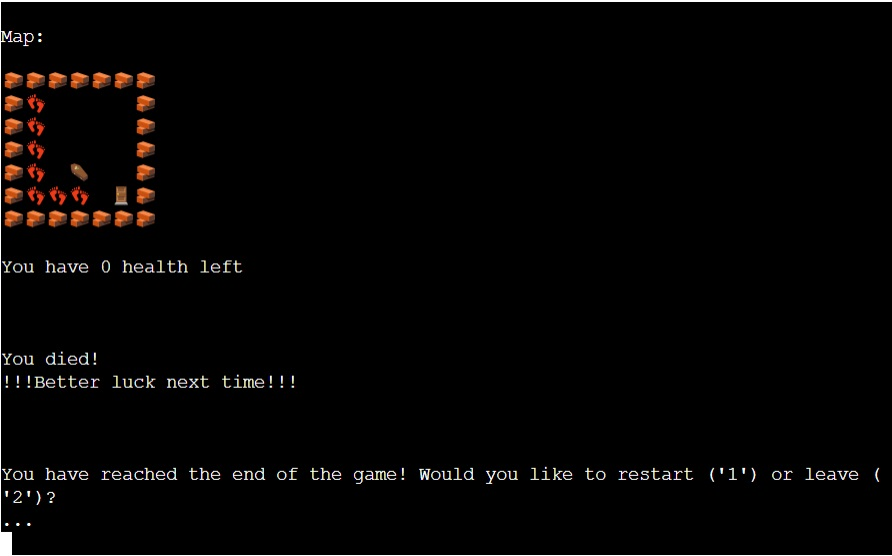
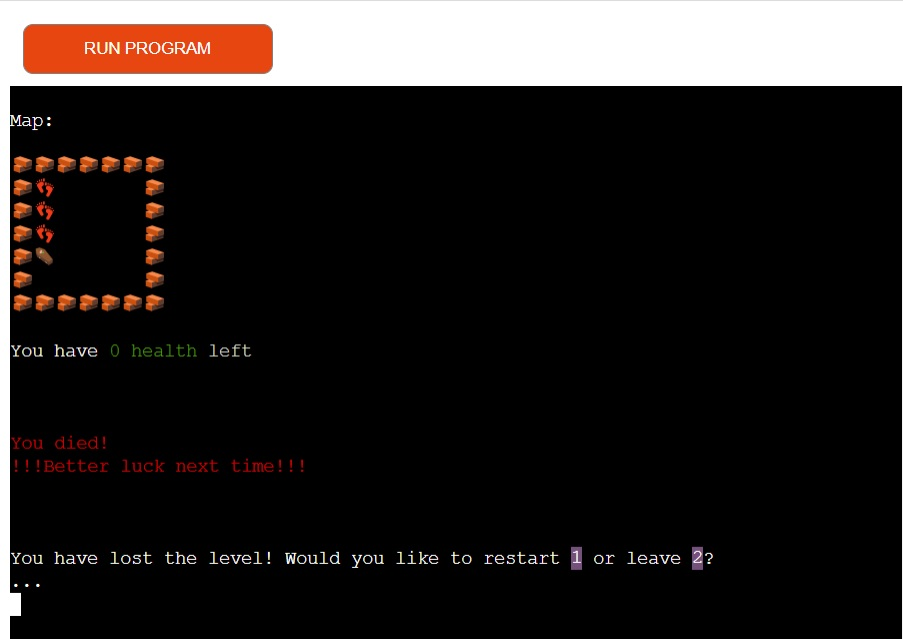
Add level feature to README

Changed region(s): [[0.0, 0.0, 1.0, 1.0], [0.8778, 0.8255, 0.9686, 0.8867], [0.2422, 0.5198, 0.2724, 0.5809]]

diff --git a/run.py b/run.py
@@ -25,9 +25,8 @@ legend = {
     "player": "🧍 ",
     "wall": "🧱 ",
     "skeleton": "💀 ",
-    "dead": "⚰ "
-    # Use for debugging
-    # "door": "E  "
+    "dead": "⚰ ",
+    "door": "E  "
 }
 
 
@@ -52,7 +51,7 @@ class Entity:
         self.attack = attack
 
 
-level = 1
+level = 20
 skeletons = []
 skeleton_rooms = []
 
@@ -60,7 +59,7 @@ skeleton_rooms = []
 def set_entities():
     i = 1
     global player
-    player = Entity(0, 2, 1)
+    player = Entity(0, 20, 2)
     while i <= level:
         skel_pos = random.randint(3, 23)
         if i > 0:
@@ -136,7 +135,8 @@ def rules():
         f"{Fore.YELLOW}exit"
         f"{Fore.WHITE}.\n\nCareful though, "
         f"{Fore.RED}skeletons "
-        f"{Fore.WHITE}are guarding the area.\n\n"
+        f"{Fore.WHITE}are guarding the area. With each level, more "
+        "enemies will be guarding the dungeon\n\n"
         "You can rest to gain "
         f"{Fore.GREEN}health\n\n"
         f"{Fore.WHITE}Each turn, you will choose a direction to go, "
@@ -183,10 +183,9 @@ def create_map():
         rooms.append(room)
     # Assign player to room
     rooms[player.pos].status = "player"
-    # Use for debugging
-    # for i in range(len(skeletons)):
-    #    rooms[skeleton_rooms[i]].status = "skeleton"
-    # rooms[door].status = "door"
+    for i in range(len(skeletons)):
+        rooms[skeleton_rooms[i]].status = "skeleton"
+    rooms[door].status = "door"
 
 
 def player_action_choice():
@@ -486,12 +485,17 @@ if __name__ == "__main__":
     while True:
         set_entities()
         run_game()
-        if level >= 20:
-            print(
-                "You have reached the end of the game in its current status"
-                "Congratulations on your victory!"
-            )
-        if success == 1:
+        if level > 20:
+            while True:
+                i = input(
+                    "Congratulations! You have beat the game in its current "
+                    f"state of development. Press {Back.MAGENTA}Enter"
+                    f"{Back.RESET} to go \nback to the main menu"
+                )
+                if i == "":
+                    break
+                print(f"{i} is wrong, please press Enter...")
+        elif success == 1:
             while True:
                 i = input(
                     "\nYou have won the level! Would "

diff --git a/README.md b/README.md
@@ -1,6 +1,6 @@
 # Coco's Dungeon Crawler
 
-This is a dungeon crawler style text based game developped in Python. The aim of the game is for the player to navigate through the dungeon to find the exit. Along the way they might find enemy skeletons which they will have to fight or evade.
+This is a dungeon crawler style text based game developped in Python. The aim of the game is for the player to navigate through the dungeon to find the exit. Along the way they might find enemy skeletons which they will have to fight or evade. A level system has been put in place. Each level has a corresponding amount of enemies (skeletons) on the map. This increases the difficulty and helps with replayability.
 
 
 ## Features
@@ -11,7 +11,7 @@ This game is a text based adventure. The player is asked to make a choice, wethe
 
 - __I - Starting page__
 
-The starting page offers the player a menu style choice, letting them choose between starting the game, reading the rules and the credits.
+The starting page offers the player a menu style choice, letting them choose between starting the game, reading the rules and the credits. It also informs the player on which level they will be playing.
 ![Starting page](documentation/starting-page.jpg)
 
   - __Rules__
@@ -69,10 +69,9 @@ The player is given a choice to fight or flee. Results are as follows:
 - __VI - End of game__
 
 The game ends in one of two ways:
-- The player is defeated by a skeleton, they die.
+- The player is defeated by a skeleton, they die. The player can choose to restart the game, in which case it resets to level 1, or to exit the program
 ![Defeat](documentation/defeat.jpg)
-- The player finds the exit, they win.
-The player can then decide to play again or exit the program
+- The player finds the exit, they win. They can decide to move onto the next level or exit the program
 ![Victory](documentation/victory.jpg)
 
 
@@ -115,6 +114,8 @@ class Entity:
         self.health = health
         self.attack = attack
 ```
+
+Skeletons are generated randomly, one for level one, two for level two and so on. Currently game stops at level 20, with 20 skeletons, the player and the exit generated on the map.
 
 - __Movement__
 
@@ -194,16 +195,17 @@ A variety of testing has been done during the development process. The two main 
 ![End of game input](documentation/input-end-game.jpg)
 
 ### Known issues:
-- If the player inputs "Ctrl + C" during the game, it creates a keyboard interruption, ending the program.
+- If the player inputs "Ctrl + C" (or "Cmnd + C" on Mac) during the game, it creates a keyboard interruption, ending the program.
 ![Ctrl + C](documentation/control-c.jpg)
 - On Mozilla Firefox browser, emojis are cut in half
 ![Mozilla Firefox](documentation/firefox.jpg)
 - If the player fails to flee and loses against the skeleton, screen jumps straight to defeat screen. Difficult to follow what happened for player.
+- The game currently has 25 "rooms". If we try to generate more than 20 skeletons the random generation takes very long and can cause some bugs. For this reason the game currently ends when the player reaches the exit on level 20.
 
 ### Tools and technologies used
 
 A number of tools were used for this project:
-- Programming - Python
+- Programming - Python, Colorama
 - Software - Heroku, GitHub, GitPod, GitHub issues
 Link to Open Issues: https://github.com/Corentin-Vidick/DungeonCrawler/issues
 ![GitHub issues](documentation/github-issues1.jpg)
@@ -279,7 +281,6 @@ The frontend terminal should now be connected and deployed to Heroku.
 - clear() function from https://stackoverflow.com/questions/2084508/clear-terminal-in-python
 - Object understanding through https://www.w3schools.com/python/python_classes.asp
 - Use of colorama from https://www.youtube.com/watch?v=u51Zjlnui4Y&ab_channel=TechWithTim
-
 - Intellectual property
   - All images and text are property of the developer, Corentin Vidick
   - GitPod repository can be found at [Dungeon Crawler repository](https://github.com/Corentin-Vidick/DungeonCrawler) solely developed by Corentin Vidick from 21/11/2022.
